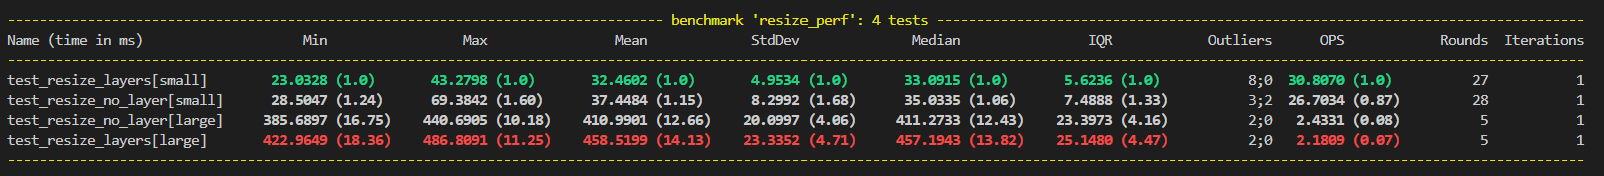
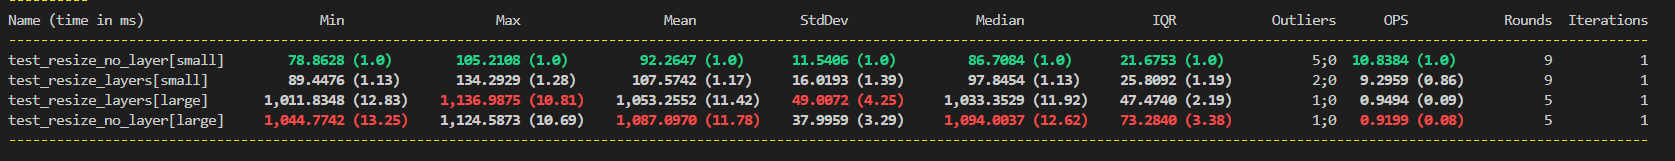
Update benchmarking post code and add new benchmark result images

diff --git a/_posts/2026-09-13-benchmarking-matplotlib-interactive-cursor-performance-layers.md b/_posts/2026-09-13-benchmarking-matplotlib-interactive-cursor-performance-layers.md
@@ -62,6 +62,7 @@ def no_layer_setup(plot_data):
     ax.scatter(x, y, alpha=0.5, color='blue')
     cursor = Cursor(ax, color='red', linewidth=1)
 
+    plt.show(block=False)
     fig.canvas.draw()
     fig.canvas.flush_events()
 
@@ -83,6 +84,7 @@ def layers_setup(plot_data):
     fig.add_artist(cursor.lineh, layer="overlay")
     fig.add_artist(cursor.linev, layer="overlay")
 
+    plt.show(block=False)
     fig.canvas.draw()
     fig.canvas.flush_events()
 
@@ -112,7 +114,6 @@ def test_layers(benchmark, layers_setup):
 
 ![Benchmark Results - Dataset1]({{ '/assets/images/image4.png' | relative_url }})
 
-![Benchmark Results - Dataset2]({{ '/assets/images/image5.png' | relative_url }})
 
 Key takeaways from the benchmark results:
 * In the layer approach, there is not much difference between the small and large rendering times.
@@ -144,9 +145,8 @@ def n_points(request):
 
 @pytest.fixture
 def plot_data(n_points):
-    rng = np.random.default_rng(0)
-    x = rng.normal(5, 2, n_points)
-    y = rng.normal(5, 2, n_points)
+    x = np.random.normal(5, 2, n_points)
+    y = np.random.normal(5, 2, n_points)
     return x, y
 
 
@@ -159,6 +159,7 @@ def no_layer_setup(plot_data):
     title = Text(0.5, 0.95, "Resize benchmark", ha="center", transform=fig.transFigure)
     fig.add_artist(title)
 
+    plt.show(block=False)
     fig.canvas.draw()
     fig.canvas.flush_events()
 
@@ -177,6 +178,7 @@ def layers_setup(plot_data):
     title = Text(0.5, 0.95, "Resize benchmark", ha="center", transform=fig.transFigure)
     fig.add_artist(title, layer="overlay")
 
+    plt.show(block=False)
     fig.canvas.draw()
     fig.canvas.flush_events()
 
